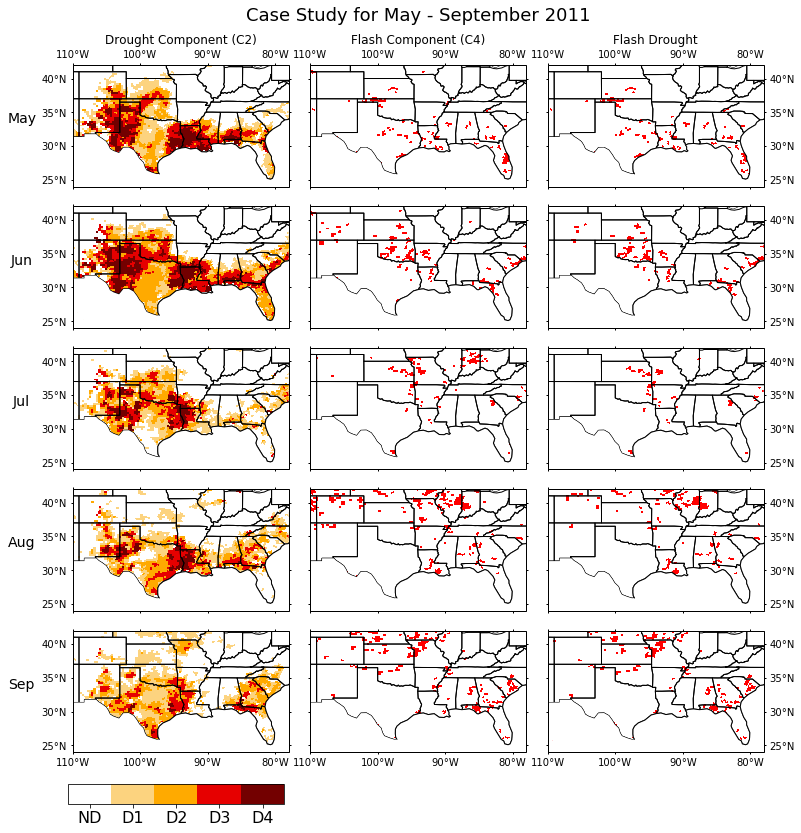
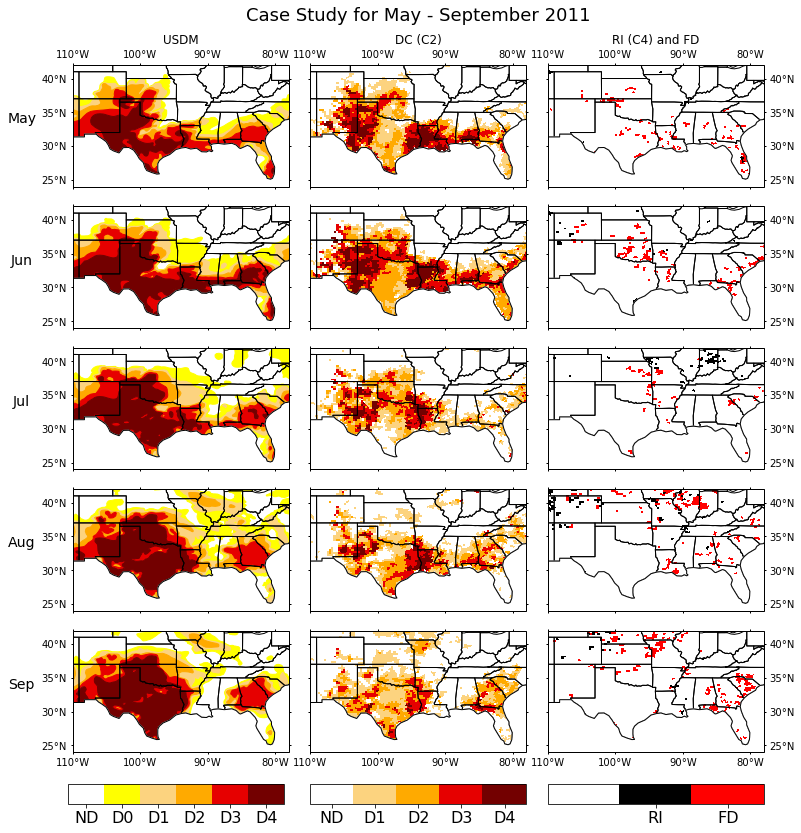
Corrected a typo in a figure and changed some figure title/label names from FC to RI.

diff --git a/Scripts/Criteria_Analysis.py b/Scripts/Criteria_Analysis.py
@@ -652,8 +652,8 @@ usdm03dates = np.asarray([datetime.strptime(date, '%Y-%m-%d') for date in usdm03
 #%%
 # cell 23
 # New and current case studies
-year = 2019
-subset = False
+year = 2012
+subset = True
 
 CaseStudy(c2['c2'], c4['c4'], FD['FD'], DI['DI'], DP['DP'], year, FD['lat'], FD['lon'], FD['ymd'], FD['year'], FD['month'], USDM['ymd'], USDM['year'], USDM['month'], maskSub, subset)
 # CaseStudy(c2['c2'], c4['c4'], FD['FD'], DI['DI'], DP['DP'], year, FD['lat'], FD['lon'], FD['ymd'], FD['year'], FD['month'], usdm03dates, usdm03years, usdm03months, maskSub, subset)
@@ -1396,8 +1396,12 @@ ax4 = fig.add_subplot(2, 2, 4)
 # Plot the rapid intensification and flash drought time series
 ax4.plot(FD['ymd'][tmpind], perFCeast, 'b-.', label = 'Rapid Drying (C4)')
 ax4.fill_between(FD['ymd'][tmpind], perFCeast-FCstdeast, perFCeast+FCstdeast, alpha = 0.5, edgecolor = 'b', facecolor = 'b')
+#ax4.plot(FD['ymd'][tmpind], perFCeast+FCstdeast, 'b--')
+#ax4.plot(FD['ymd'][tmpind], perFCeast-FCstdeast, 'b--')
 ax4.plot(FD['ymd'][tmpind], perFDeast, 'k--', label = 'Flash Drought')
 ax4.fill_between(FD['ymd'][tmpind], perFDeast-FDstdeast, perFDeast+FDstdeast, alpha = 0.5, edgecolor = 'k', facecolor = 'k')
+#ax4.plot(FD['ymd'][tmpind], perFDeast+FDstdeast, 'k--')
+#ax4.plot(FD['ymd'][tmpind], perFDeast-FDstdeast, 'k--')
 
 # Add a legend
 ax4.legend(loc = 'upper right', fontsize = 18)

diff --git a/Scripts/Drought_Comparison.py b/Scripts/Drought_Comparison.py
@@ -159,7 +159,7 @@ def WriteNC(var, lat, lon, dates, filename = 'tmp.nc', VarName = 'tmp', VarSName
 # Load the data
 
 # Define some names
-USDMpath = '.Data/Misc_Data/'
+USDMpath = './Data/Misc_Data/'
 USDMfn = 'USDM_grid_all_years.nc'
 USDMname = 'USDM'
 
@@ -387,7 +387,7 @@ PlotStatMap(CovCompDiff, USDM['lon'], USDM['lat'], title = 'Composite Mean Diffe
 
 #%%
 # cell 11
-# Create the truth table maps
+# Create the contingency table maps
 
 # Initialize some variables
 I, J, T = DCcov.shape
@@ -848,7 +848,7 @@ plt.show(block = False)
 
 #%%
 # cell 13
-# Next make the truth table/confusion matrix maps
+# Next make the contingency table/confusion matrix maps
 
 # Lat/Lon tick information
 lat_int = 10
@@ -990,7 +990,7 @@ plt.show(block = False)
 
 #%%
 # cell 14
-# Next make a change confusion matrix plot based on suggestions
+# Next make a change contingency matrix plot based on suggestions
 
 # Lat/Lon tick information
 lat_int = 10
@@ -1113,7 +1113,7 @@ ax3.add_geometries(NonUSGeom, crs = ccrs.PlateCarree(), facecolor = 'white', edg
 ax3.add_feature(cfeature.OCEAN, facecolor = 'white', edgecolor = 'white', zorder = 2)
 
 # Set a local title
-ax3.set_title('Frequency of False Negative', fontsize = 16)
+ax3.set_title('Frequency of False Negatives', fontsize = 16)
 
 # Set the tick information
 ax3.set_xticks(LonLabel, crs = ccrs.PlateCarree())

diff --git a/FlashDroughtFunctions/FlashDroughtCaseStudies.py b/FlashDroughtFunctions/FlashDroughtCaseStudies.py
@@ -1582,7 +1582,7 @@ def CaseStudyMaps(USDMDates, DI, FCFD, lon, lat, LonMin, LonMax, LatMin, LatMax,
             # For the top row, set the titles
             ax1.set_title('USDM')
             ax2.set_title('DC (C2)')
-            ax3.set_title('FC (C4) and FD')
+            ax3.set_title('RI (C4) and FD')
             
             
             # Set some extra tick parameters
@@ -1689,7 +1689,7 @@ def CaseStudyMaps(USDMDates, DI, FCFD, lon, lat, LonMin, LonMax, LatMin, LatMax,
     cbarfcfd = fig.colorbar(cfc, cax = cbax3, orientation = 'horizontal')
     
     cbarfcfd.set_ticks([2/3+1/3, 4/3+1/3])
-    cbarfcfd.ax.set_xticklabels(['FC', 'FD'], fontsize = 16)
+    cbarfcfd.ax.set_xticklabels(['RI', 'FD'], fontsize = 16)
     
     #fig.tight_layout()
     
